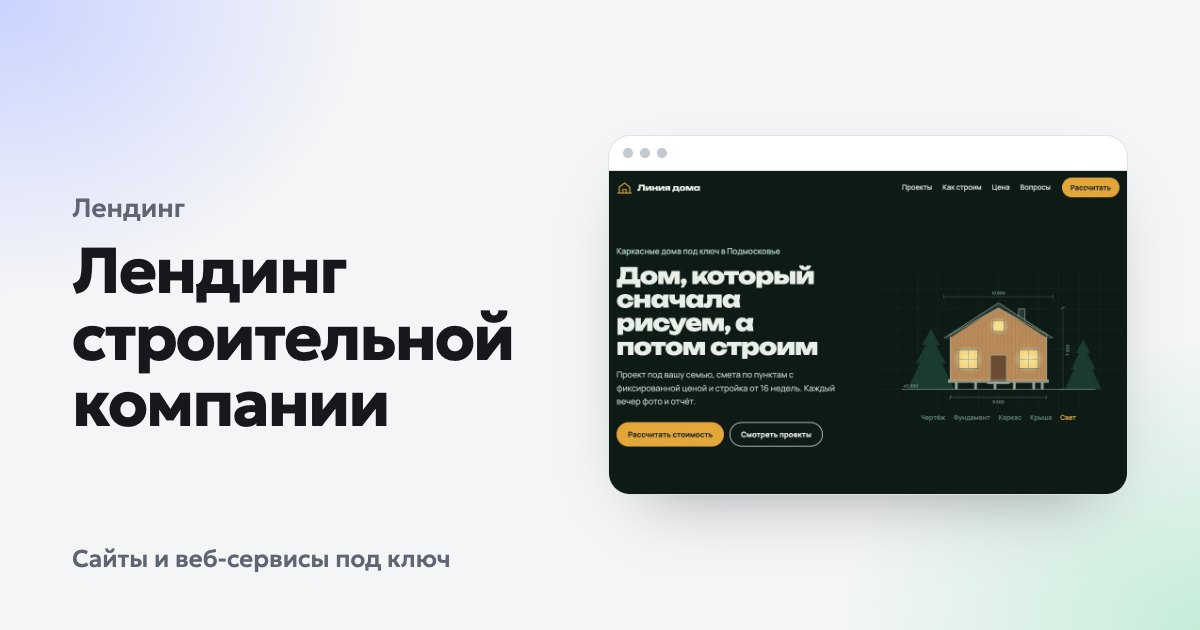
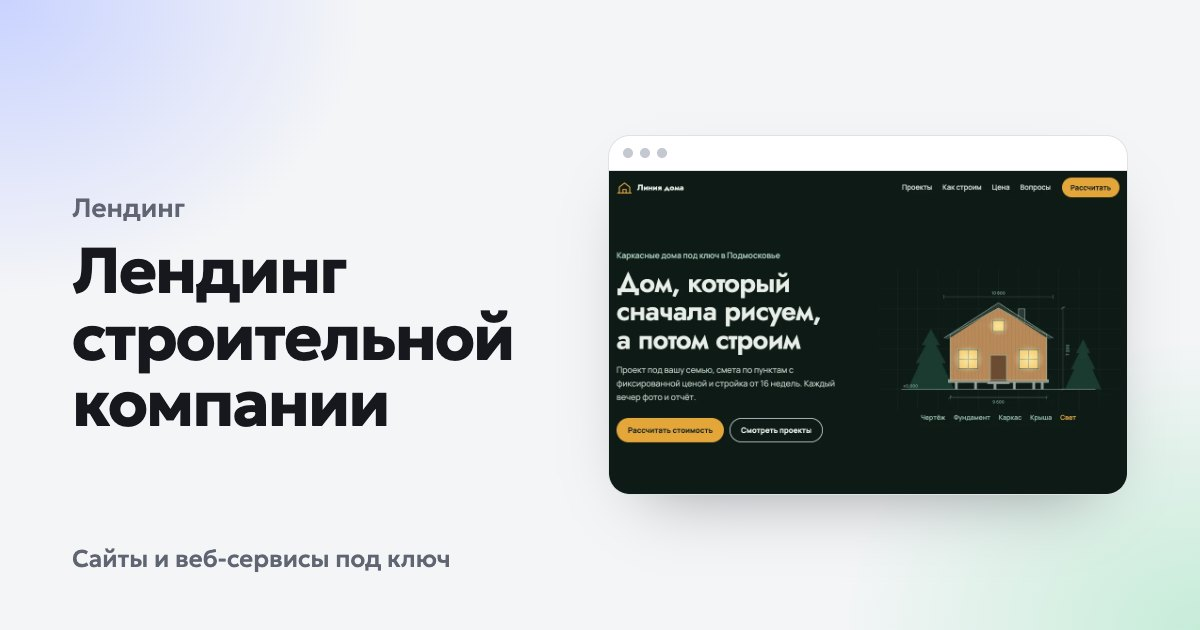
Switch landing headings to Jost and add the landing to the hub hero collage

Changed region(s): [[0.4933, 0.3921, 0.7092, 0.7238], [0.5242, 0.2714, 0.5858, 0.3016]]

diff --git a/src/styles/pages/dom-site.scss b/src/styles/pages/dom-site.scss
@@ -1,14 +1,14 @@
 // Лендинг «Линия дома»: светлый бетон, графит, хвоя и янтарь. Первый экран
 // всегда тёмный, как лист чертежа. Отдельно от стилей хаба.
 
-// Unbounded одним файлом только с нужными знаками: кириллица, латиница,
-// цифры, пунктуация, ₽, ± и ². Вместо трёх наборов на 196 КБ один на 53 КБ,
-// заголовок первого экрана не ждёт догрузки латиницы ради запятой.
+// Jost одним файлом только с нужными знаками: кириллица, латиница, цифры,
+// пунктуация, ₽, ± и ². Геометрический шрифт в духе архитектурных бюро,
+// 23 КБ вместо трёх наборов, заголовок первого экрана не ждёт догрузки.
 @font-face {
-  font-family: 'Unbounded';
+  font-family: 'Jost';
   font-weight: 500 800;
   font-display: swap;
-  src: url('../../assets/fonts/unbounded-sub.woff2') format('woff2');
+  src: url('../../assets/fonts/jost-sub.woff2') format('woff2');
 }
 @font-face {
   font-family: 'Manrope';
@@ -46,7 +46,7 @@
   --bad: #b3261e;
   --r: 18px;
   --ease: cubic-bezier(.2, .7, .2, 1);
-  --display: 'Unbounded', system-ui, sans-serif;
+  --display: 'Jost', system-ui, sans-serif;
   --text: 'Manrope', system-ui, sans-serif;
 
   // Чертёж первого экрана: одинаковый в обеих темах
@@ -314,8 +314,8 @@ h2 {
 
   h1 {
     margin-top: 14px;
-    font: 800 clamp(2rem, 1.2rem + 2.6vw, 3.3rem) / 1.05 var(--display);
-    letter-spacing: -.03em;
+    font: 600 clamp(2.3rem, 1.3rem + 3.4vw, 4.1rem) / 1.04 var(--display);
+    letter-spacing: -.02em;
     text-wrap: balance;
   }
 }
@@ -793,7 +793,7 @@ html:not(.dom-anim) .step__dot {
   max-width: 640px;
 
   output {
-    font: 800 clamp(2.4rem, 1.8rem + 2vw, 3.4rem) / 1 var(--display);
+    font: 700 clamp(2.6rem, 2rem + 2vw, 3.6rem) / 1 var(--display);
     font-variant-numeric: tabular-nums;
   }
 
@@ -876,7 +876,7 @@ html:not(.dom-anim) .step__dot {
 
 .result__sum {
   margin-top: 6px;
-  font: 800 clamp(1.9rem, 1.3rem + 2.4vw, 3rem) / 1.1 var(--display);
+  font: 700 clamp(2rem, 1.4rem + 2.4vw, 3.2rem) / 1.1 var(--display);
   font-variant-numeric: tabular-nums;
 }
 

diff --git a/src/styles/pages/index.scss b/src/styles/pages/index.scss
@@ -101,7 +101,7 @@ html.js .hero .hero__actions {
   @media (min-width: $bp-wide) {
     display: block;
     position: relative;
-    aspect-ratio: 1 / .92;
+    aspect-ratio: 1 / .96;
   }
 }
 
@@ -132,7 +132,7 @@ html.js .hero .hero__actions {
 
   &:hover,
   &:focus-visible {
-    z-index: 4;
+    z-index: 5;
     transform: translateY(-8px) scale(1.025);
     box-shadow: 0 40px 80px -34px rgba(22, 24, 29, .55);
     transition-delay: 0s;
@@ -148,7 +148,7 @@ html.js .hero .hero__actions {
 .collage__item--1 {
   top: 0;
   left: 0;
-  width: 80%;
+  width: 74%;
   z-index: 1;
   --fx: -48px;
   --fy: -28px;
@@ -156,9 +156,9 @@ html.js .hero .hero__actions {
 }
 
 .collage__item--2 {
-  top: 30%;
+  top: 17%;
   right: 0;
-  width: 62%;
+  width: 56%;
   z-index: 2;
   --fx: 56px;
   --fy: 0px;
@@ -167,14 +167,26 @@ html.js .hero .hero__actions {
 }
 
 .collage__item--3 {
-  bottom: 0;
-  left: 8%;
-  width: 60%;
+  bottom: 6%;
+  left: 0;
+  width: 52%;
   z-index: 3;
   --fx: -20px;
   --fy: 52px;
   --fr: -2deg;
   --d: .2s;
+}
+
+// Лендинг стоит спереди справа внизу и влетает последним
+.collage__item--4 {
+  bottom: 0;
+  right: 5%;
+  width: 56%;
+  z-index: 4;
+  --fx: 36px;
+  --fy: 60px;
+  --fr: 2deg;
+  --d: .3s;
 }
 
 // backwards, а не both: после влёта transform свободен для наведения

diff --git a/src/scripts/motion.ts b/src/scripts/motion.ts
@@ -60,7 +60,8 @@ function followCursor() {
 
   const hero = document.querySelector<HTMLElement>('.hero');
   const items = [...document.querySelectorAll<HTMLElement>('.collage__item')];
-  const depth = [6, 10, 14];
+  // Глубина смещения за курсором: переднее окно двигается сильнее
+  const depth = [6, 10, 14, 18];
   if (hero && items.length) {
     track(hero, (x, y) => items.forEach((el, i) => (el.style.translate = x || y ? `${(x * depth[i] * 2).toFixed(2)}px ${(y * depth[i] * 2).toFixed(2)}px` : '')));
   }
